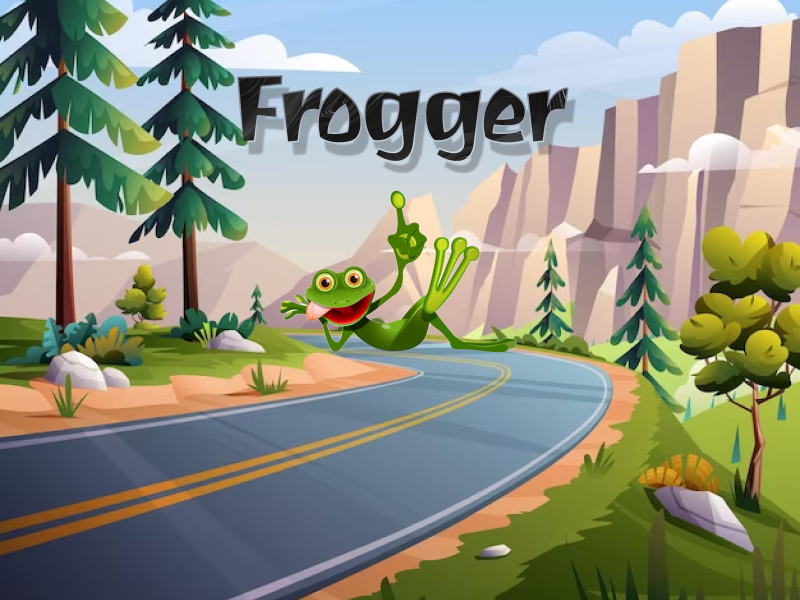
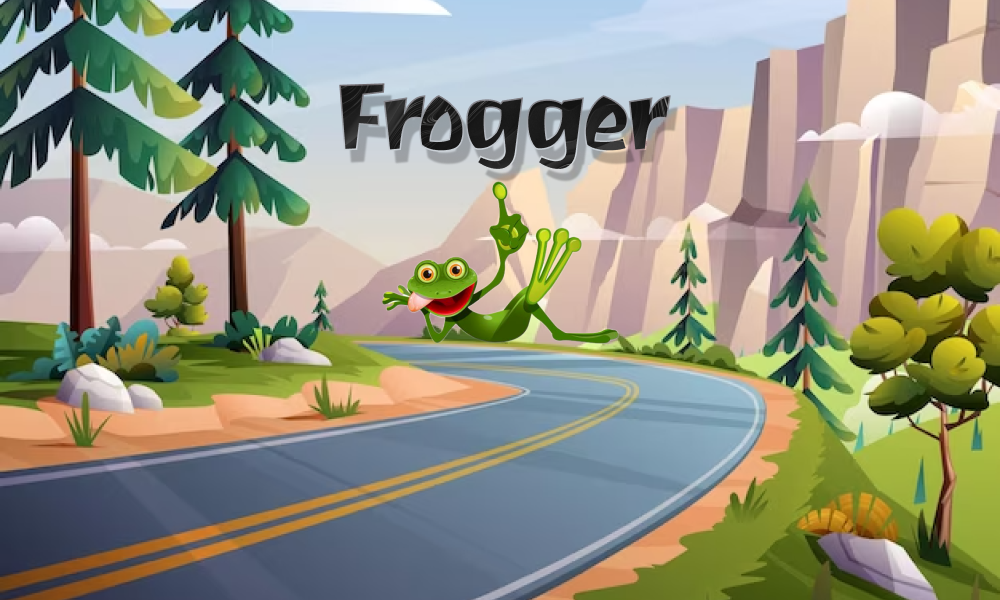
Changed menuBackground. Other one was 800x600 from figma
The new one is 1000x600 and fits better

diff --git a/src/gameMenu.ts b/src/gameMenu.ts
@@ -22,21 +22,21 @@ class GameMenu implements IMenu {
 
     this.buttonNewGame = new Button(
       buttonX,
-      height / 1.73,
+      height / 1.76,
       buttonWidth,
       buttonHeight,
       "New Game",
     );
     this.buttonInstructions = new Button(
       buttonX,
-      height / 1.71 + 53,
+      height / 1.76 + 53,
       buttonWidth,
       buttonHeight,
       "Instructions",
     );
     this.buttonLeaderboard = new Button(
       buttonX,
-      height / 1.71 + 106,
+      height / 1.76 + 106,
       buttonWidth,
       buttonHeight,
       "Leaderboard",
